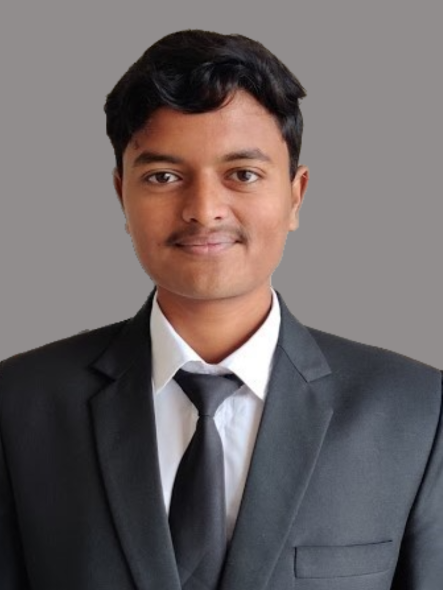
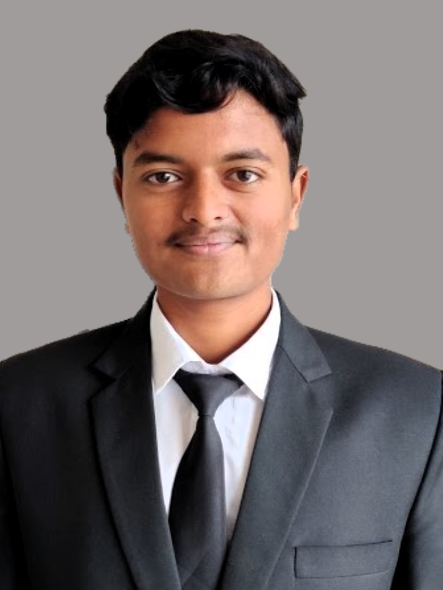
added/changed picture

Changed region(s): [[0.3228, 0.1525, 0.7043, 0.8542], [0.4695, 0.6712, 0.5869, 0.8542]]

diff --git a/index.html b/index.html
@@ -41,36 +41,36 @@
                     <span class="navbar-toggler-icon"></span>
                 </button>
                 <div class="collapse navbar-collapse" id="navbarSupportedContent">
-                    <ul class="navbar-nav ms-lg-5">
+                    <ul class="navbar-nav ms-lg-5 top-bar-right">
                         <li class="nav-item">
                             <a class="nav-link" href="">
-                                <h4>HOME</h4>
+                                <h4>Home</h4>
                             </a>
                         </li>
                         <li class="nav-item">
                             <a class="nav-link" href="">
-                                <h4>SERVICES</h4>
+                                <h4>Services</h4>
                             </a>
                         </li>
                         <li class="nav-item">
                             <a class="nav-link" href="">
-                                <h4>WORK</h4>
+                                <h4>Work</h4>
                             </a>
                         </li>
                         <li class="nav-item">
                             <a class="nav-link" href="">
-                                <h4>BLOG</h4>
+                                <h4>Blog</h4>
                             </a>
                         </li>
                         <li class="nav-item">
                             <a class="nav-link" href="">
-                                <h4>ABOUT</h4>
+                                <h4>About</h4>
                             </a>
                         </li>
-                    </ul>
-                    <ul class="navbar-nav ms-auto bg-bold">
-                        <li class="nav-item bold">
-                            <h2>Contact</h2>
+                        <li class="nav-item">
+                            <a class="nav-link" href="contact.html">
+                              <h4>Contact</h4>
+                            </a>
                         </li>
                     </ul>
                 </div>
@@ -85,9 +85,9 @@
             <div class="col-sm-12 col-md-6 pos">
                 <h2>Sri Charan</h2>
                 <p class="designation">I'm a Full Stack Developer</p>
-                <p> 
-                    Lorem Ipsum has been the industry's standard dummy text ever since the 1500s, 
-                    when an unknown printer took a galley of type and scrambled it to make a type specimen book. 
+                <p>
+                    Lorem Ipsum has been the industry's standard dummy text ever since the 1500s,
+                    when an unknown printer took a galley of type and scrambled it to make a type specimen book.
                     It was popularised in the 1960s like Aldus PageMaker including versions of Lorem Ipsum.
                 </p>
                 <p>Download CV</p>

diff --git a/style.css b/style.css
@@ -22,17 +22,25 @@ body{
     color: #fff;
 }
 
+a{
+  font-family: 'Montserrat-bold',sans-serif;
+}
+
 .pos{
     margin-top: 4%;
 }
 .profile-pic{
-    width: 55%;
+    width: 45%;
     margin-left: 23%;
+
+    /* border-radius: 100%; */
 }
 .header-div{
     margin: 5% 60% 5% 20%;
 }
-
+.top-bar-right{
+  padding-left: 50%;
+}
 .bold{
     font-weight: 700;
     font-family: 'Montserrat', sans-serif;
@@ -42,5 +50,5 @@ body{
     color: #E8C07D;
 }
 .nav-item-color{
-    
+
 }
